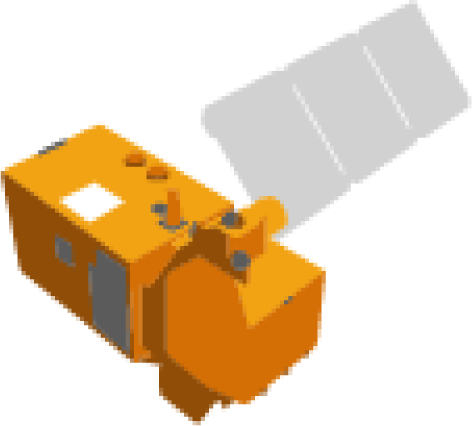
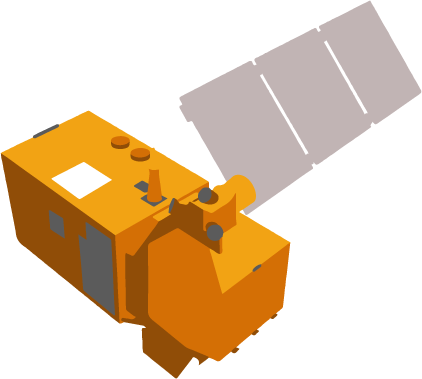
waves added 8

diff --git a/index.html b/index.html
@@ -855,7 +855,7 @@ window.addEventListener('DOMContentLoaded', () => {
     // IMPORTANT: You must have an image named 'satellite.png' in the same folder as this HTML file.
     const textureLoader = new THREE.TextureLoader();
     const satelliteTexture = textureLoader.load(
-        './icons/s3d.png',
+        './icons/s2.png',
         () => {}, // onLoad callback
         undefined, // onProgress callback
         (err) => { console.error('An error occurred loading the satellite texture.'); } // onError callback
